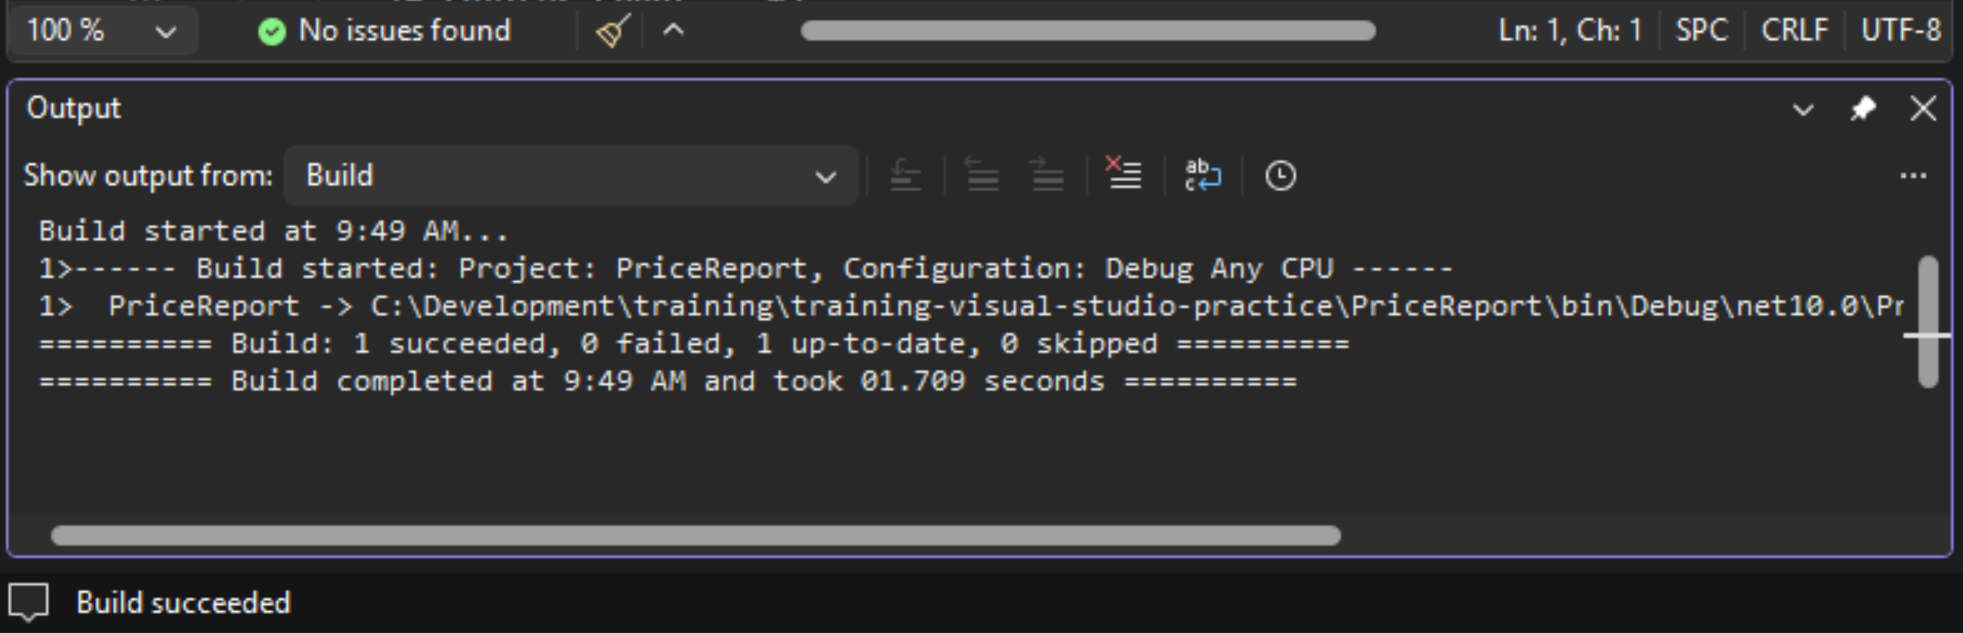
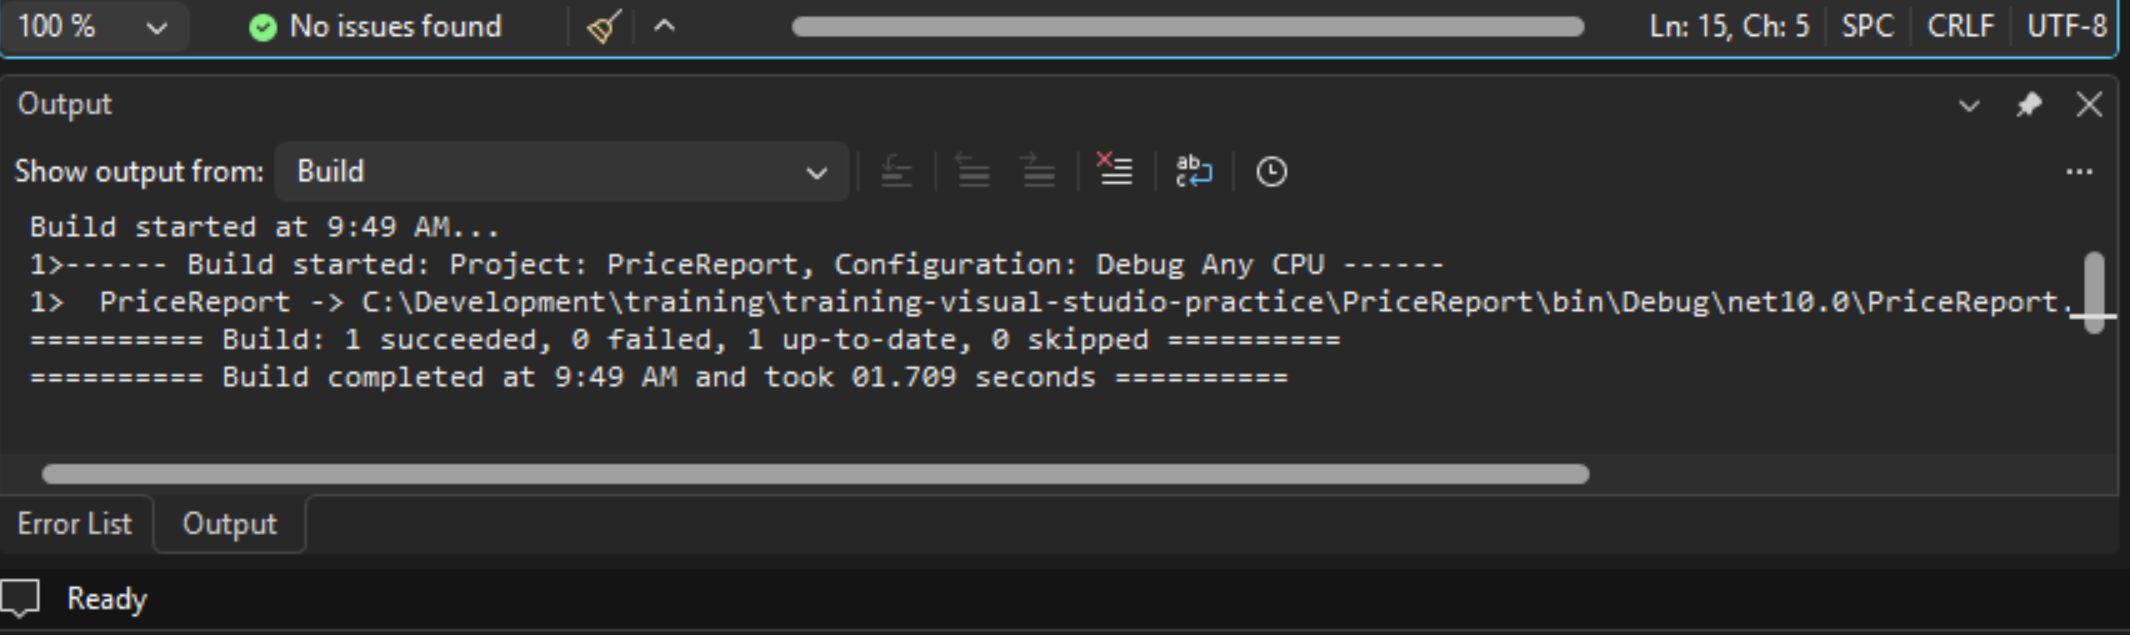
SWM - screenshot cleanup in ch 0

diff --git a/ch00-introduction/01-course-overview/lesson.md b/ch00-introduction/01-course-overview/lesson.md
@@ -61,7 +61,7 @@ The **Solution Explorer** is the tree on the right. It lists the solution, and u
 
 The **editor** is the large space in the middle, where your files open. Each file gets a tab across the top, and you can split the editor to see two files side by side.
 
-The **panels** sit below the editor. The Error List shows the errors and warnings from your last build. The Output window shows what the build and the tools are saying, and it has a drop-down that picks which tool's output you are looking at. Test Explorer, which you will meet in Part III, lists your tests and lets you run them. Panels are windows like any other, so you can move, pin, or close them.
+The **panels** sit below the editor. The Error List shows the errors and warnings from your last build. Its tab only appears after the first error or warning is caught, so do not worry if you do not see it at first. The Output window shows what the build and the tools are saying, and it has a drop-down that picks which tool's output you are looking at. Test Explorer, which you will meet in Part III, lists your tests and lets you run them. Panels are windows like any other, so you can move, pin, or close them.
 
 The **status bar** is the thin strip at the very bottom. It shows the branch you are on, the number of errors and warnings, the project, and the line and column of your cursor. Click an item in it and you usually get a menu for changing that thing.
 
@@ -77,9 +77,9 @@ The full-window picture below shows where each part sits, with the names the les
 
 *Figure 0.2 - Status bar close-up*
 
-![Figure 0.3 - Output panel and editor status line](images/ch00-output-and-error-list.png)
+![Figure 0.3 - Output panel and panel tabs](images/ch00-output-and-error-list.png)
 
-*Figure 0.3 - Output panel and editor status line*
+*Figure 0.3 - Output panel and panel tabs*
 
 ## Command Search in one sentence
 
